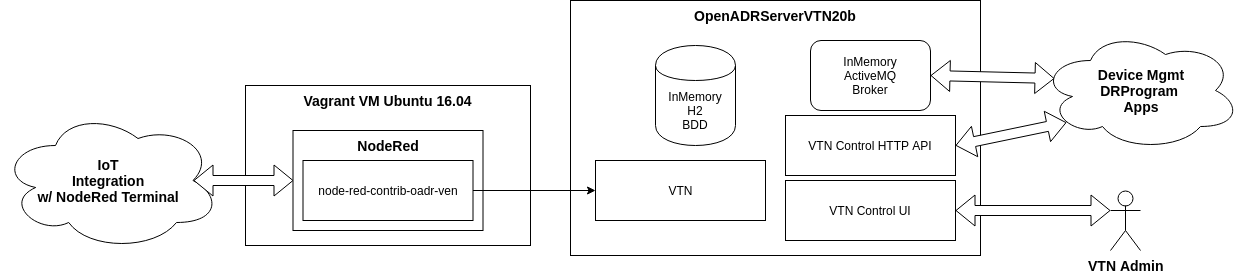
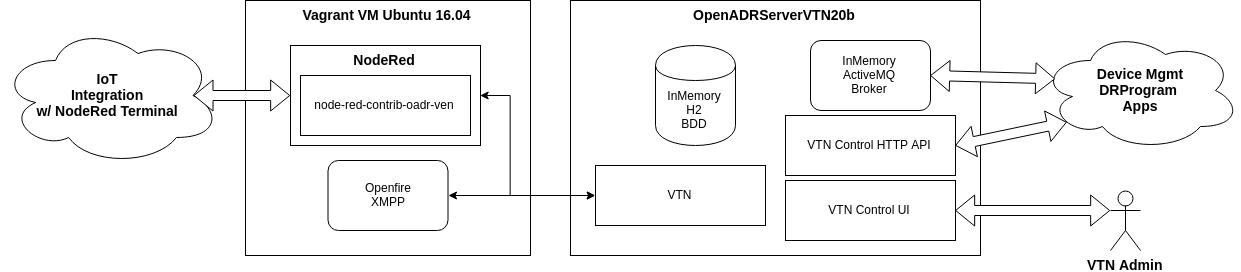
xmpp

diff --git a/OpenADRXMPPClient/src/main/java/com/avob/openadr/client/xmpp/oadr20b/OadrXmppClient20b.java b/OpenADRXMPPClient/src/main/java/com/avob/openadr/client/xmpp/oadr20b/OadrXmppClient20b.java
@@ -7,6 +7,7 @@ import java.util.Map;
 
 import javax.net.ssl.SSLContext;
 
+import org.jivesoftware.smack.ConnectionConfiguration;
 import org.jivesoftware.smack.SASLAuthentication;
 import org.jivesoftware.smack.SmackException;
 import org.jivesoftware.smack.SmackException.NoResponseException;
@@ -74,12 +75,14 @@ public class OadrXmppClient20b {
 		try {
 			return XMPPTCPConnectionConfiguration.builder()
 //				.setHostAddress(address)
+
 					.setHost(host).setPort(port)
 //				.allowEmptyOrNullUsernames()
 //				.setUsernameAndPassword(resource,resource)
 //				.setAuthzid(authzid)
 //				.setAuthzid(authzid)
-					.performSaslAnonymousAuthentication()
+					.performSaslAnonymousAuthentication().setSecurityMode(ConnectionConfiguration.SecurityMode.disabled)
+					.setCompressionEnabled(false)
 //				.addEnabledSaslMechanism("ANONYMOUS")
 //				.performSaslExternalAuthentication(context)
 //				.setUsernameAndPassword("admin", "mouaiccool")
@@ -99,6 +102,8 @@ public class OadrXmppClient20b {
 					.setHost(host).setPort(port)
 //				.allowEmptyOrNullUsernames()
 					.setUsernameAndPassword(username, password)
+					.setSecurityMode(ConnectionConfiguration.SecurityMode.disabled).setCompressionEnabled(false)
+
 //				.setAuthzid(authzid)
 //				.setAuthzid(authzid)
 //					.performSaslAnonymousAuthentication()
@@ -128,6 +133,9 @@ public class OadrXmppClient20b {
 			EntityBareJid authzid = JidCreate.entityBareFrom(resource + "@" + host);
 
 			connection = new XMPPTCPConnection(config);
+			connection.setUseStreamManagement(false);
+			connection.setUseStreamManagementResumption(false);
+			connection.setReplyTimeout(20000);
 
 			setDomainJid(JidCreate.domainBareFrom(XMPP_OADR_SUBDOMAIN + "." + domain));
 			setClientJid(JidCreate.entityFullFrom(venId, XMPP_OADR_SUBDOMAIN + "." + domain, resource));

diff --git a/README.md b/README.md
@@ -36,6 +36,7 @@ OpenADRServerVTN20b | OADR 2.0b VTN skeleton implementation
 - VTN Control Swagger UI: https://vtn.oadr.com:8181/testvtn/swagger-ui.html
 - VTN Control UI: https://vtn.oadr.com:8181/testvtn/
 - VTN RabbitMQ Management UI: http://192.168.33.2:15672
+- VTN Openfire Management UI: http://192.168.33.2:9090
 - Nodered Terminal: http://192.168.33.2:1880 
 - Ven1 Nodered Dashboard: http://192.168.33.2:1880/ui/#!/0
 
